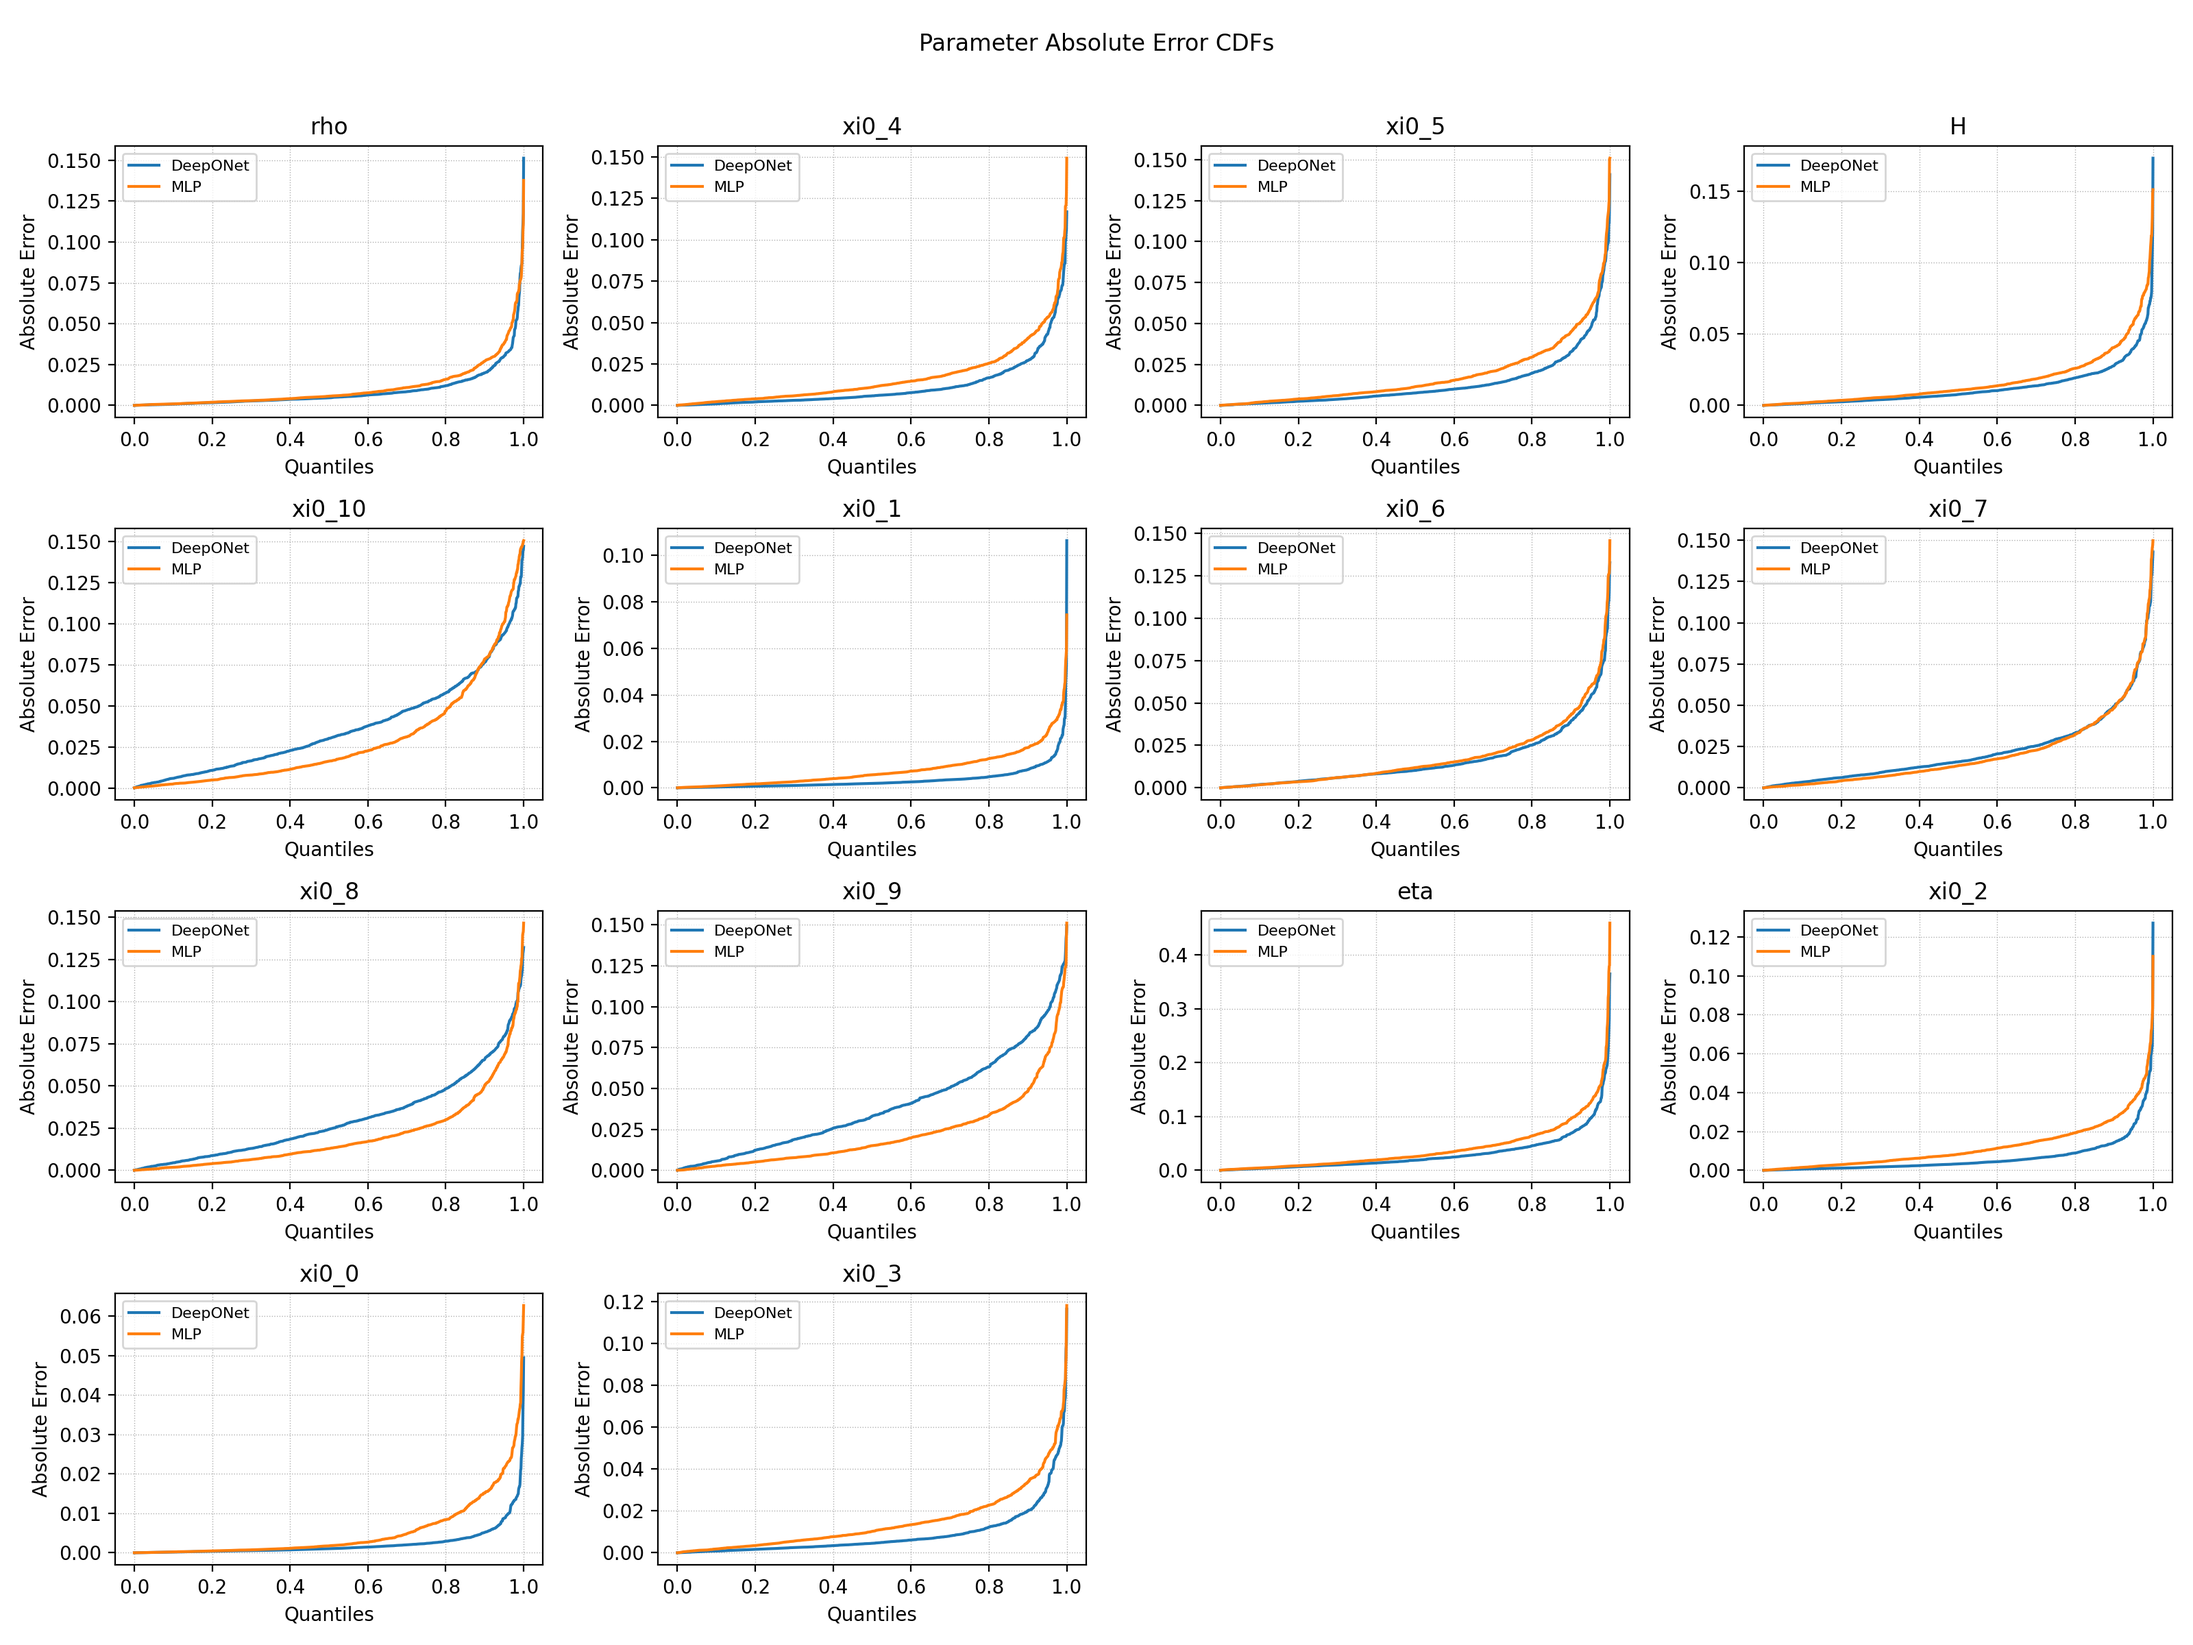
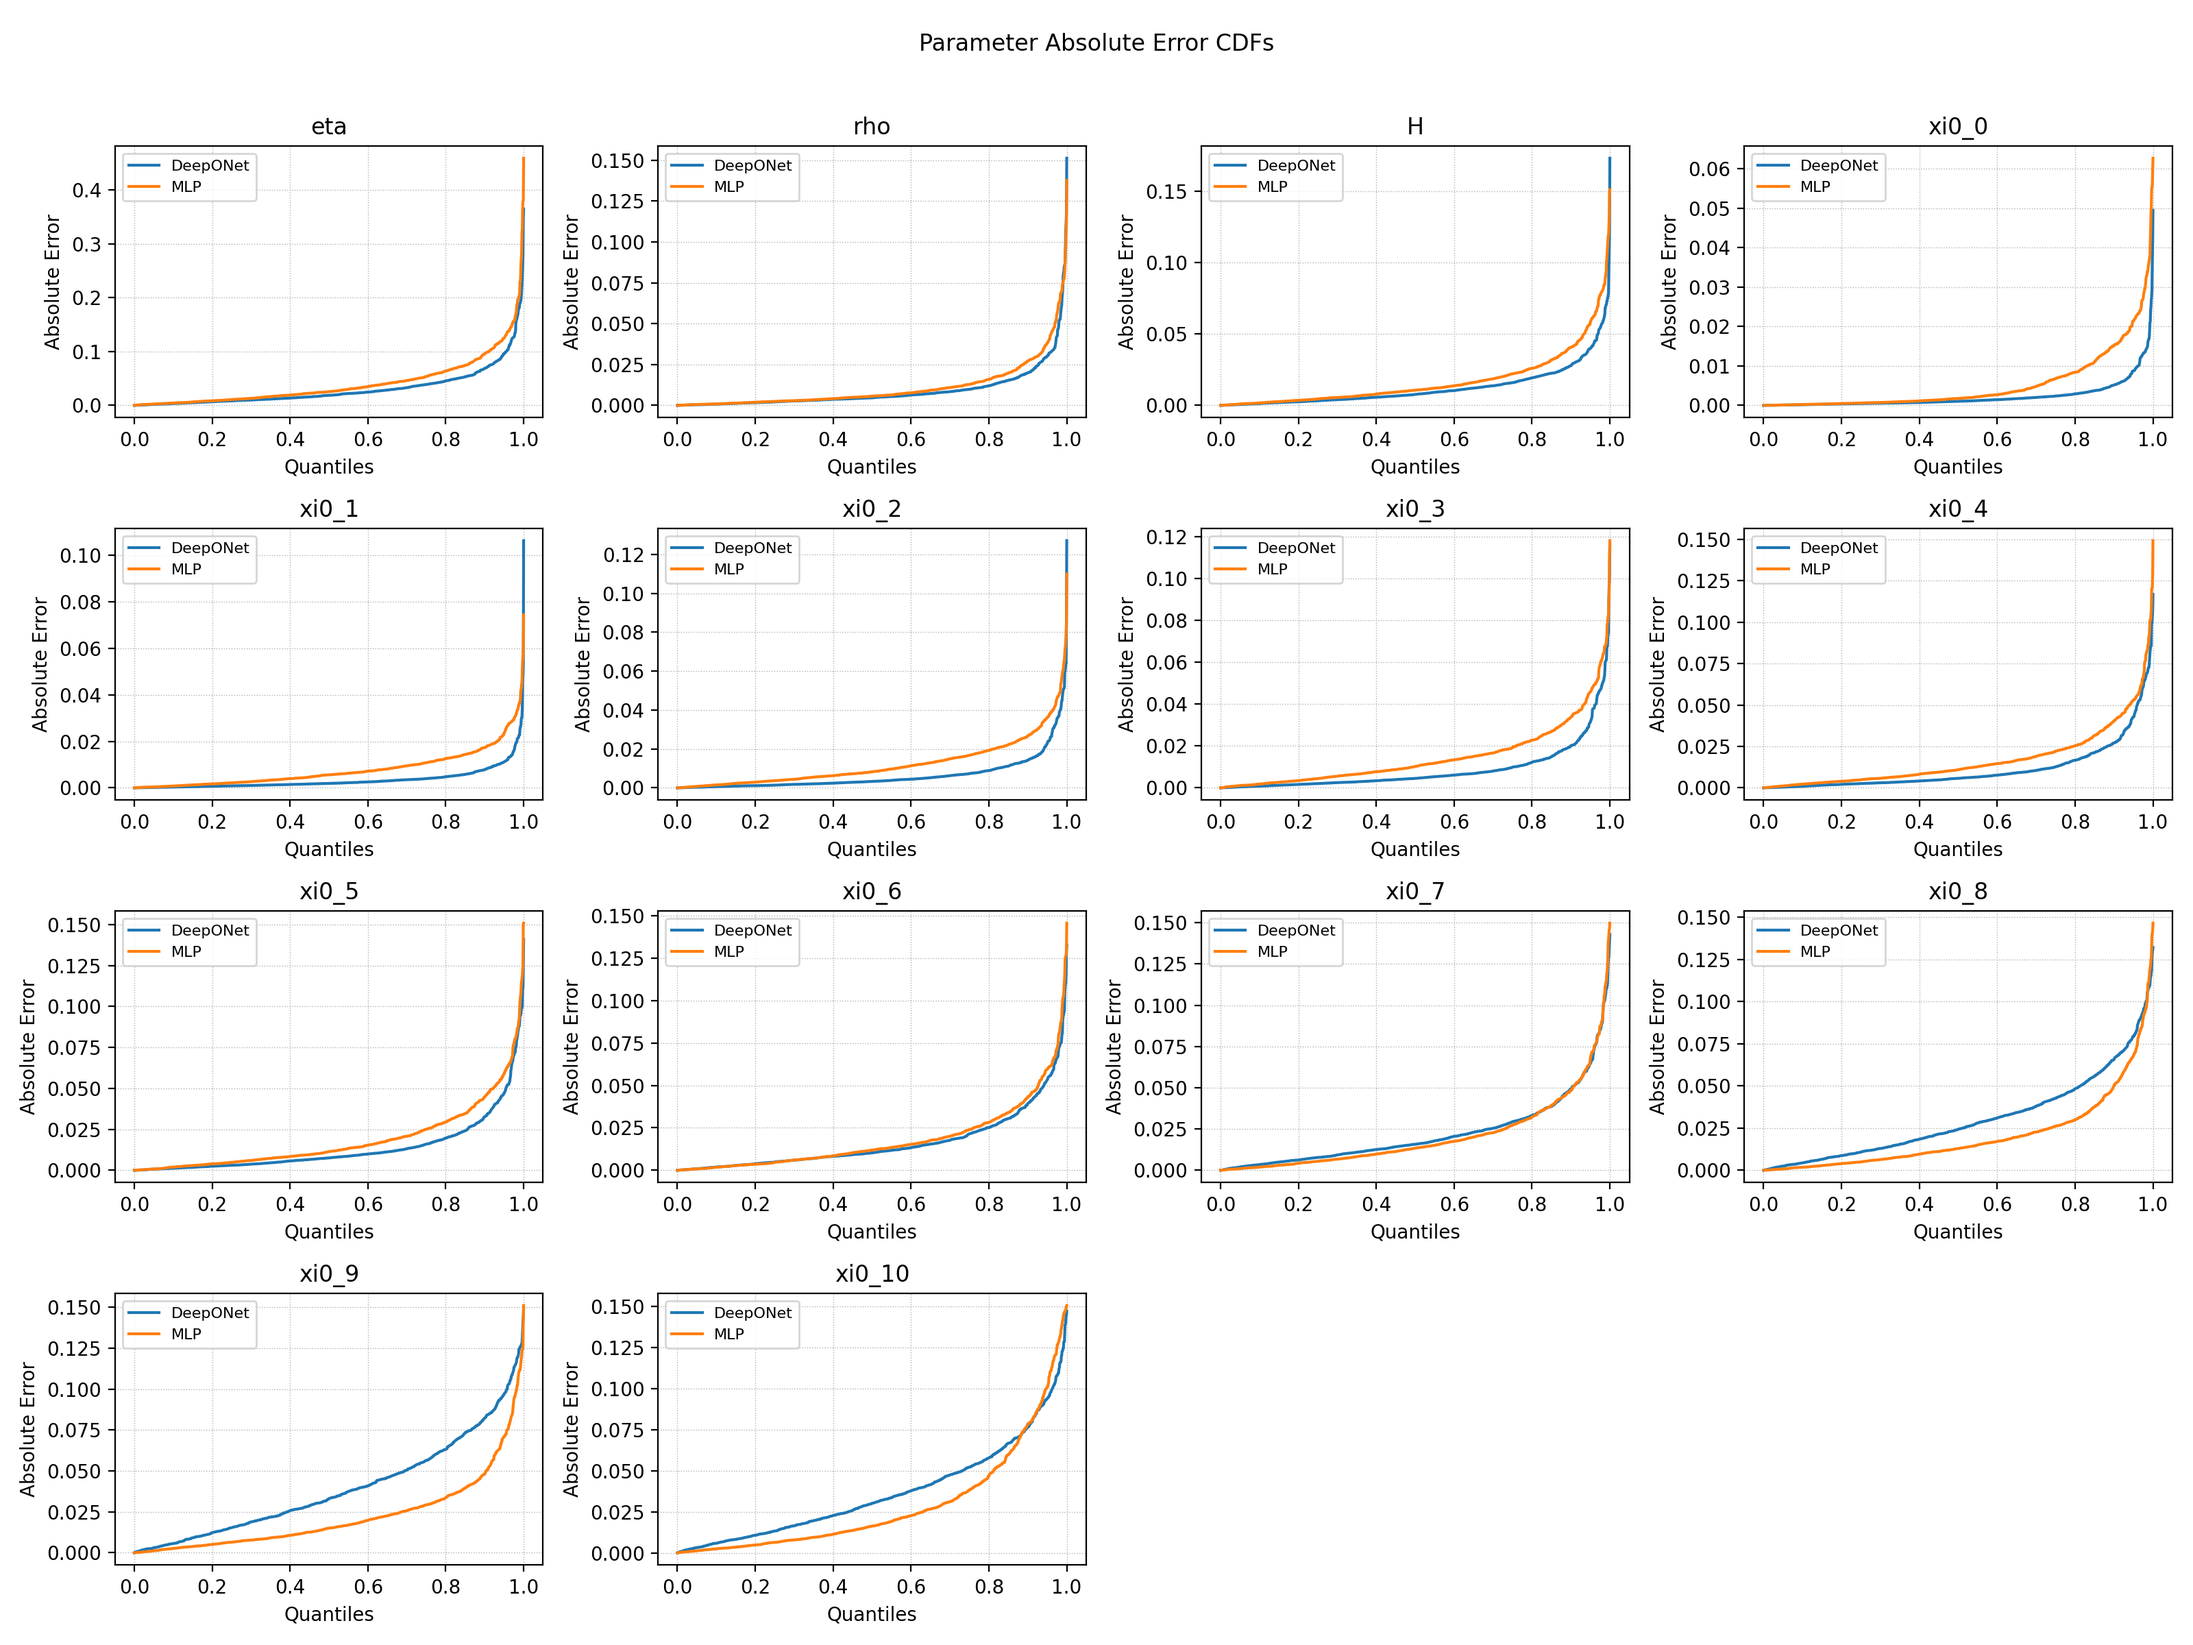
added rmse for param errors

diff --git a/models/framework.py b/models/framework.py
@@ -621,90 +621,104 @@ class BaseModel(nn.Module):
             "optimizer": optimiser
         }
 
-    def evaluate_calibrate(self, surfaces, optimiser="L-BFGS-B", maxiter=500,
-                        out_dir="calibration_eval", verbose=False):
-        """
-        Run calibration across multiple surfaces using a single optimizer,
-        producing per-parameter error statistics, ECDF plots, and returning
-        true/estimated parameter arrays.
-        """
+def evaluate_calibrate(self, surfaces, optimiser="L-BFGS-B", maxiter=500,
+                       out_dir="calibration_eval", verbose=False):
+    """
+    Run calibration across multiple surfaces using a single optimizer,
+    producing per-parameter error statistics (mean/median/std + RMSE for absolute),
+    and returning true/estimated parameter arrays.
+    """
 
-        os.makedirs(out_dir, exist_ok=True)
-        print(f"\nEvaluating calibration using {optimiser} on {len(surfaces)} surfaces...")
+    os.makedirs(out_dir, exist_ok=True)
+    print(f"\nEvaluating calibration using {optimiser} on {len(surfaces)} surfaces...")
 
-        runtimes, rmses = [], []
-        per_param_rel_errors, per_param_abs_errors = {}, {}
-        true_params_all, est_params_all = [], []
+    runtimes, rmses = [], []
+    per_param_rel_errors, per_param_abs_errors = {}, {}
+    true_params_all, est_params_all = [], []
 
-        for i, s in enumerate(surfaces, start=1):
-            r = self.calibrate(s, optimiser=optimiser, maxiter=maxiter)
-            runtimes.append(r["runtime_ms"])
-            rmses.append(r["rmse"])
-            est_params_all.append(r["theta_hat"])
+    for i, s in enumerate(surfaces, start=1):
+        r = self.calibrate(s, optimiser=optimiser, maxiter=maxiter)
+        runtimes.append(r["runtime_ms"])
+        rmses.append(r["rmse"])
+        est_params_all.append(r["theta_hat"])
 
-            tp = s.get("params", None)
-            if tp is not None:
-                tvec = np.concatenate([
-                    [tp["eta"], tp["rho"], tp["H"]],
-                    np.array(tp["xi0_knots"], dtype=np.float32).ravel()
-                ])
-                true_params_all.append(tvec)
+        tp = s.get("params", None)
+        if tp is not None:
+            tvec = np.concatenate([
+                [tp["eta"], tp["rho"], tp["H"]],
+                np.array(tp["xi0_knots"], dtype=np.float32).ravel()
+            ])
+            true_params_all.append(tvec)
+        else:
+            true_params_all.append(np.full_like(r["theta_hat"], np.nan))
+
+        theta_hat = np.array(r["theta_hat"], dtype=np.float32)
+        true_vec = np.array(true_params_all[-1], dtype=np.float32)
+        param_names = ["eta", "rho", "H"] + [f"xi0_{j}" for j in range(len(theta_hat) - 3)]
+
+        abs_errs = np.abs(theta_hat - true_vec)
+        rel_errs = abs_errs / np.clip(np.abs(true_vec), 1e-8, None)
+
+        for k, aerr, rerr in zip(param_names, abs_errs, rel_errs):
+            per_param_abs_errors.setdefault(k, []).append(aerr)
+            per_param_rel_errors.setdefault(k, []).append(rerr)
+
+        if verbose and (i % 50 == 0 or i == len(surfaces)):
+            mean_rmse = np.mean(rmses)
+            print(f"  [{i}/{len(surfaces)}] mean RMSE={mean_rmse:.5f}, "
+                  f"avg time={np.mean(runtimes):.1f} ms")
+
+    # Convert lists to arrays
+    for d in (per_param_abs_errors, per_param_rel_errors):
+        for k in d:
+            d[k] = np.array(d[k])
+
+    runtimes, rmses = np.array(runtimes), np.array(rmses)
+    true_params_all, est_params_all = np.array(true_params_all), np.array(est_params_all)
+    avg_time = np.mean(runtimes)
+
+    # --- Helper for summary printing ---
+    def summarize(errors, kind):
+        print(f"{kind.title()} Errors per Parameter:")
+        for k, vals in errors.items():
+            scale = 100 if kind == "relative" else 1
+            mean = np.mean(vals)
+            median = np.median(vals)
+            std = np.std(vals)
+            unit = "%" if kind == "relative" else ""
+            if kind == "absolute":
+                rmse = np.sqrt(np.mean(vals ** 2))
+                print(f"   {k:<8s} | mean={mean*scale:.3f}{unit}"
+                      f" | median={median*scale:.3f}{unit}"
+                      f" | std={std*scale:.3f}{unit}"
+                      f" | RMSE={rmse*scale:.3f}{unit}")
             else:
-                true_params_all.append(np.full_like(r["theta_hat"], np.nan))
+                print(f"   {k:<8s} | mean={mean*scale:.3f}{unit}"
+                      f" | median={median*scale:.3f}{unit}"
+                      f" | std={std*scale:.3f}{unit}")
 
-            # Compute and store errors
-            theta_hat = np.array(r["theta_hat"], dtype=np.float32)
-            true_vec = np.array(true_params_all[-1], dtype=np.float32)
-            param_names = ["eta", "rho", "H"] + [f"xi0_{j}" for j in range(len(theta_hat) - 3)]
+    # --- Output summary ---
+    print(f"\n→ Final avg time: {avg_time:.1f} ms, mean RMSE={np.mean(rmses):.5f}\n")
+    summarize(per_param_rel_errors, "relative")
+    print()
+    summarize(per_param_abs_errors, "absolute")
 
-            abs_errs = np.abs(theta_hat - true_vec)
-            rel_errs = abs_errs / np.clip(np.abs(true_vec), 1e-8, None)
+    # --- Return data (only abs RMSEs computed) ---
+    per_param_abs_rmse = {k: np.sqrt(np.mean(v ** 2)) for k, v in per_param_abs_errors.items()}
 
-            for k, aerr, rerr in zip(param_names, abs_errs, rel_errs):
-                per_param_abs_errors.setdefault(k, []).append(aerr)
-                per_param_rel_errors.setdefault(k, []).append(rerr)
+    return {
+        "optimizer": optimiser,
+        "avg_time_ms": float(avg_time),
+        "mean_rmse": float(np.mean(rmses)),
+        "per_param_rel_errors": per_param_rel_errors,
+        "per_param_abs_errors": per_param_abs_errors,
+        "per_param_abs_rmse": per_param_abs_rmse,
+        "true_params": true_params_all,
+        "est_params": est_params_all,
+        "rmses": rmses,
+        "runtimes": runtimes,
+    }
 
-            if verbose and (i % 50 == 0 or i == len(surfaces)):
-                mean_rmse = np.mean(rmses)
-                print(f"  [{i}/{len(surfaces)}] mean RMSE={mean_rmse:.5f}, "
-                    f"avg time={np.mean(runtimes):.1f} ms")
-
-        # Convert dicts/lists to arrays
-        for d in (per_param_abs_errors, per_param_rel_errors):
-            for k in d:
-                d[k] = np.array(d[k])
-
-        runtimes, rmses = np.array(runtimes), np.array(rmses)
-        true_params_all, est_params_all = np.array(true_params_all), np.array(est_params_all)
-        avg_time = np.mean(runtimes)
-
-        # Summary output
-        print(f"\n→ Final avg time: {avg_time:.1f} ms, mean RMSE={np.mean(rmses):.5f}\n")
-
-        def summarize(errors, kind):
-            print(f"{kind.title()} Errors per Parameter:")
-            for k, vals in errors.items():
-                scale = 100 if kind == "relative" else 1
-                print(f"   {k:<8s} | mean={np.mean(vals)*scale:.3f}"
-                    f"{'%' if kind=='relative' else ''} | median={np.median(vals)*scale:.3f}"
-                    f"{'%' if kind=='relative' else ''} | std={np.std(vals)*scale:.3f}"
-                    f"{'%' if kind=='relative' else ''}")
-
-        summarize(per_param_rel_errors, "relative")
-        print()
-        summarize(per_param_abs_errors, "absolute")
-
-        return {
-            "optimizer": optimiser,
-            "avg_time_ms": float(avg_time),
-            "mean_rmse": float(np.mean(rmses)),
-            "per_param_rel_errors": per_param_rel_errors,
-            "per_param_abs_errors": per_param_abs_errors,
-            "true_params": true_params_all,
-            "est_params": est_params_all,
-            "rmses": rmses,
-            "runtimes": runtimes,
-        }
 
 
     

diff --git a/generation/utils.py b/generation/utils.py
@@ -335,43 +335,66 @@ import numpy as np
 import matplotlib.pyplot as plt
 from scipy.optimize import minimize, least_squares, differential_evolution
 
-
-import re
+import os, re, numpy as np, matplotlib.pyplot as plt
 
 def _natural_key(name: str):
-    """
-    Sort helper: 'xi0_10' -> ('xi0_', 10), 'eta' -> ('eta', -1)
-    Ensures xi0_2 < xi0_10.
-    """
+    """Sort helper: ensures xi0_2 < xi0_10, while keeping eta, rho, H first."""
     m = re.match(r"^([A-Za-z_]+)(\d+)$", name)
     if m:
         return (m.group(1), int(m.group(2)))
     return (name, -1)
 
 
-def plot_param_error_ecdfs(error_dicts, labels, out_dir="calibration_plots", kind="relative"):
+def plot_param_error_ecdfs(results, labels, out_dir="calibration_plots", kind="relative"):
     """
-    Compare ECDFs of per-parameter errors across multiple models (natural order).
+    Compare ECDFs of per-parameter errors across multiple models.
+    Parameter order now exactly matches that used in plot_param_true_vs_est().
     """
     os.makedirs(out_dir, exist_ok=True)
 
-    # Natural / numeric order
-    all_params = sorted({k for d in error_dicts for k in d.keys()}, key=_natural_key)
+    # --- 1. Extract per-model error dicts depending on kind ---
+    param_sets = []
+    for r in results:
+        if kind == "absolute":
+            if "per_param_abs_errors" in r:
+                param_sets.append(r["per_param_abs_errors"])
+            else:
+                raise KeyError("Missing 'per_param_abs_errors' in result dict.")
+        else:
+            for key in ["per_param_rel_errors", "per_param_errors"]:
+                if key in r:
+                    param_sets.append(r[key])
+                    break
+            else:
+                raise KeyError("Missing relative error dict (expected 'per_param_rel_errors' or 'per_param_errors').")
 
-    ncols = min(4, len(all_params))
-    nrows = int(np.ceil(len(all_params) / ncols))
+    # --- 2. Determine canonical parameter order ---
+    # Prefer the first model’s key order for consistency with scatterplot
+    first_dict = param_sets[0]
+    all_param_names = list(first_dict.keys())
+
+    # Fallback: use natural sorted order if unordered mapping
+    if not all_param_names or isinstance(first_dict, dict) and not hasattr(first_dict, "__iter__"):
+        all_param_names = sorted(
+            {k for d in param_sets for k in d.keys()},
+            key=_natural_key
+        )
+
+    ncols = min(4, len(all_param_names))
+    nrows = int(np.ceil(len(all_param_names) / ncols))
     fig, axes = plt.subplots(nrows, ncols, figsize=(4 * ncols, 3 * nrows), squeeze=False)
 
     def ecdf(x):
-        xs = np.sort(x)
-        ys = np.linspace(0, 1, len(x))
+        xs = np.sort(np.asarray(x))
+        ys = np.linspace(0, 1, len(xs))
         return xs, ys
 
-    for i, param in enumerate(all_params):
+    # --- 3. Plot ECDFs per parameter ---
+    for i, param in enumerate(all_param_names):
         ax = axes[i // ncols, i % ncols]
-        for errs, label in zip(error_dicts, labels):
-            if param in errs:
-                xs, ys = ecdf(errs[param])
+        for data, label in zip(param_sets, labels):
+            if param in data:
+                xs, ys = ecdf(data[param])
                 ax.plot(ys, xs * (100 if kind == "relative" else 1), label=label)
         ax.set_title(param)
         ax.set_xlabel("Quantiles")
@@ -379,6 +402,7 @@ def plot_param_error_ecdfs(error_dicts, labels, out_dir="calibration_plots", kin
         ax.grid(True, ls=":", lw=0.5)
         ax.legend(fontsize=8)
 
+    # Hide unused subplots
     for j in range(i + 1, nrows * ncols):
         axes[j // ncols, j % ncols].axis("off")
 
@@ -482,4 +506,3 @@ def plot_param_true_vs_est(
     plt.savefig(path, dpi=200)
     plt.close(fig)
     print(f"Saved scatter comparison to {path}")
-
